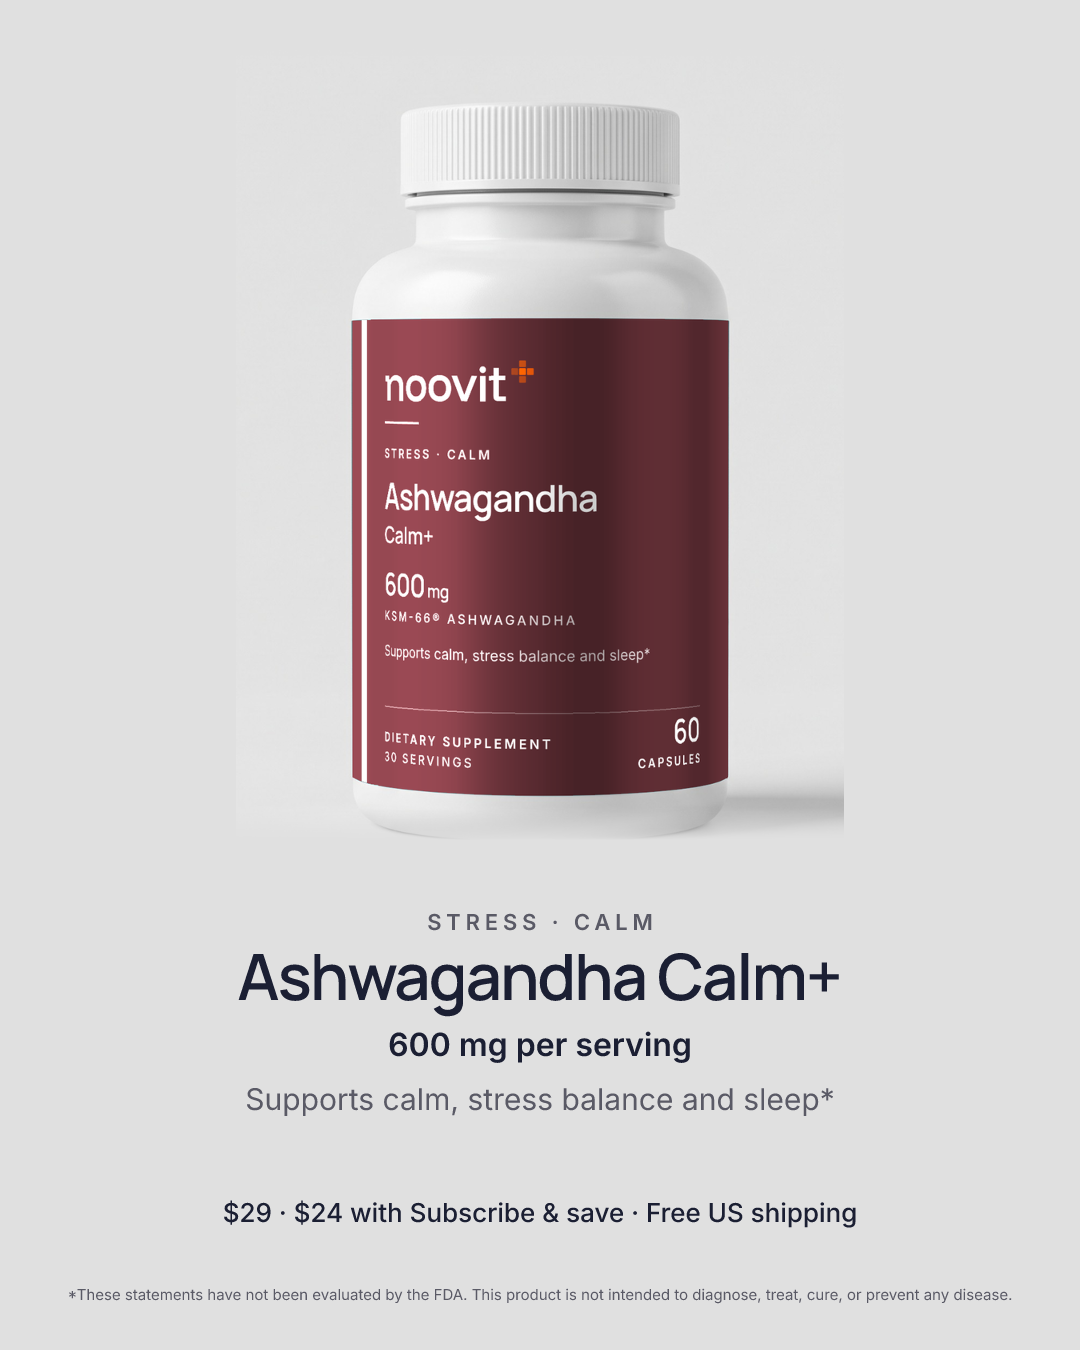
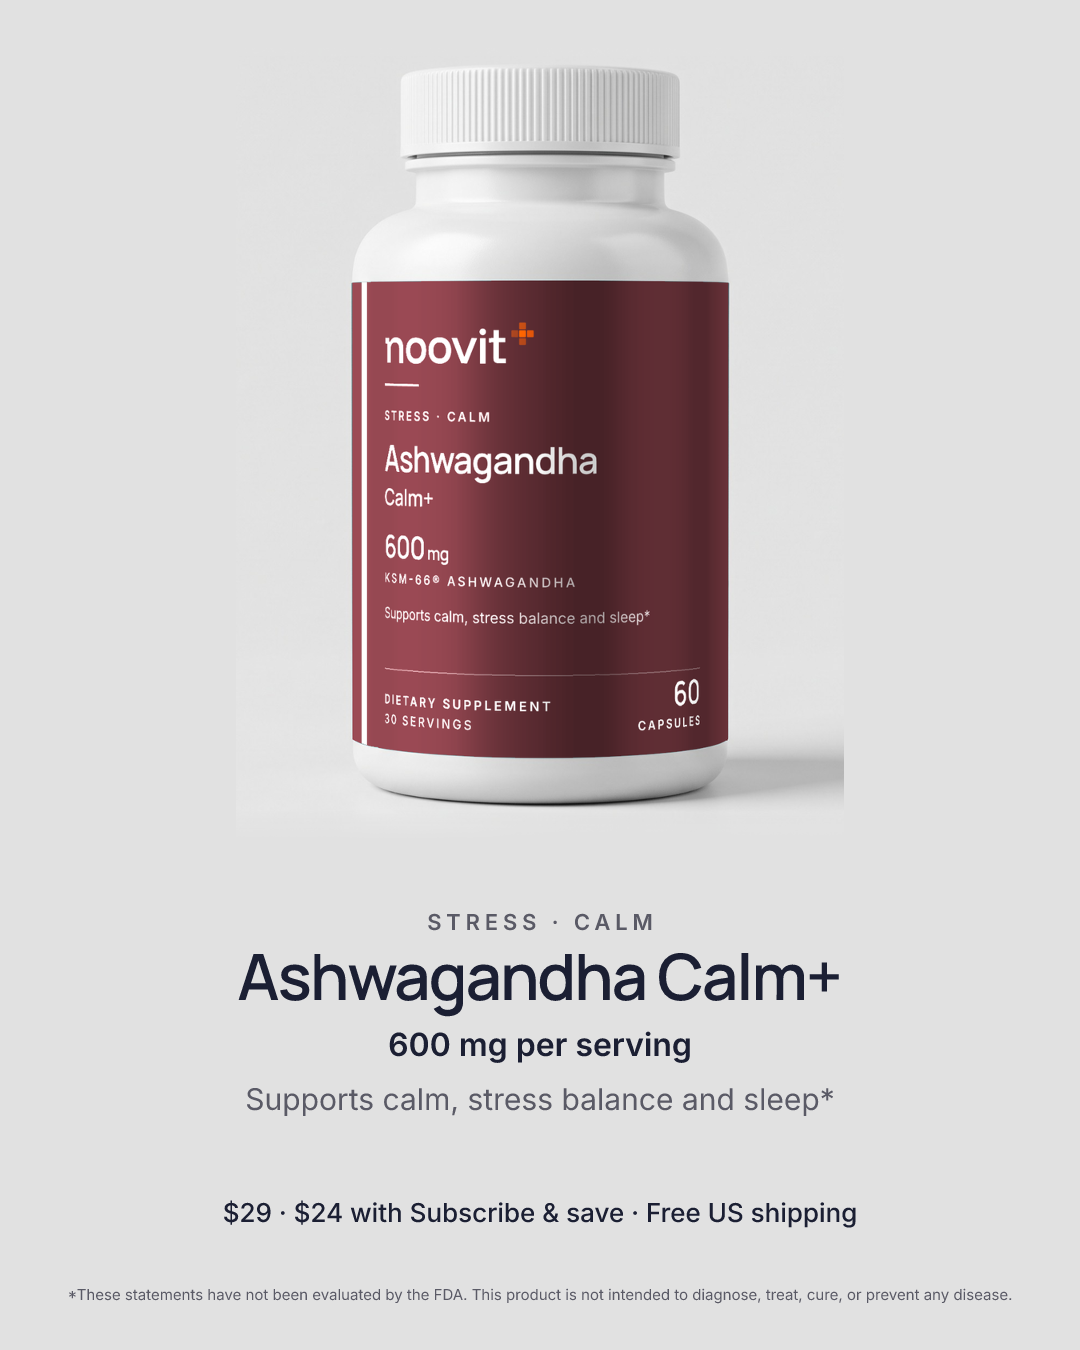
Studio photos: frame the bottle with room at the base; gallery fade no longer cuts the bottle
Claude-Session: https://claude.ai/code/session_01AgHwmMXyw3TzvCrzNnVa8R

Changed region(s): [[0.3056, 0.0311, 0.7944, 0.6222]]

diff --git a/lib/labels/gallery.ts b/lib/labels/gallery.ts
@@ -29,7 +29,7 @@ function bottleAt(p: Product, x: number, y: number, size: number, photo?: string
   if (usesPhoto(p) && photo) {
     // The studio photo's grey backdrop fades out into the tint, so no box shows.
     const id = `fade-${x}-${y}`;
-    return `<defs><radialGradient id="${id}g" cx="0.5" cy="0.5" r="0.5"><stop offset="0.7" stop-color="#fff"/><stop offset="1" stop-color="#000"/></radialGradient>
+    return `<defs><radialGradient id="${id}g" cx="0.5" cy="0.5" r="0.5"><stop offset="0.88" stop-color="#fff"/><stop offset="1" stop-color="#000"/></radialGradient>
       <mask id="${id}" maskUnits="userSpaceOnUse" x="${x}" y="${y}" width="${size}" height="${size}"><rect x="${x}" y="${y}" width="${size}" height="${size}" fill="url(#${id}g)"/></mask></defs>
       <g mask="url(#${id})"><image href="${photo}" x="${x}" y="${y}" width="${size}" height="${size}" style="mix-blend-mode:multiply"/></g>`;
   }

diff --git a/lib/labels/studio.ts b/lib/labels/studio.ts
@@ -144,7 +144,7 @@ export async function studioPhotoPng(p: Product, size = 1000, crop: 'front' | 'c
   const box =
     crop === 'closeup'
       ? (() => { const side = Math.round((r.box.x1 - r.box.x0) * 1.12); const cy = (t.top[Math.round(t.cx)] + t.bot[Math.round(t.cx)]) / 2; return { left: Math.round(cxp - side / 2), top: Math.round(cy - side / 2), side }; })()
-      : (() => { const side = Math.round(r.height * 0.74); return { left: Math.round(cxp - side / 2), top: Math.round(r.height * 0.11), side }; })();
+      : (() => { const side = Math.round(r.height * 0.74); return { left: Math.round(cxp - side / 2), top: Math.round(r.height * 0.145), side }; })();
   return sharp(r.data, { raw: { width: r.width, height: r.height, channels: 3 } })
     .extract({ left: Math.max(0, box.left), top: Math.max(0, box.top), width: box.side, height: box.side })
     .resize(size, size)

diff --git a/lib/labels/svg.ts b/lib/labels/svg.ts
@@ -15,7 +15,7 @@ import { LEGAL_NAME } from '@/lib/site';
 export type FontMode = 'web' | 'print';
 
 // Bump when the photo mockup (lib/labels/photo.ts) changes, so cached product image URLs refresh.
-export const MOCKUP_VERSION = 'studio-v1'; // studio-v1 (16 Nov): photoreal studio bottle (lib/labels/studio.ts); was photo-v14 // v12 (14 Nov): elegant dark label; v13: studio lighting; v14: label edges curve round the bottle
+export const MOCKUP_VERSION = 'studio-v2'; // studio-v1 (16 Nov): photoreal studio bottle (lib/labels/studio.ts); was photo-v14 // v12 (14 Nov): elegant dark label; v13: studio lighting; v14: label edges curve round the bottle
 
 const NAVY = '#14213d';
 const INK = '#4b5563';
